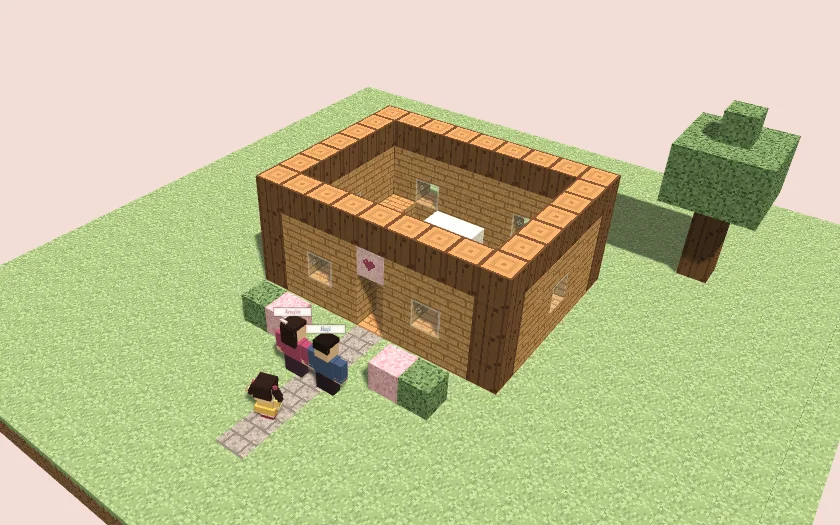
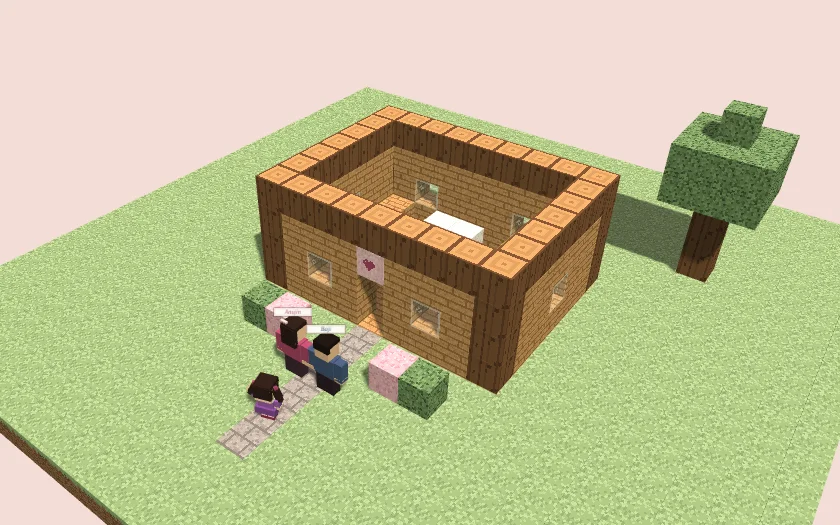
Dress our little girl in purple
Claude-Session: https://claude.ai/code/session_01CsSMHxKRckSsfcdswxFget

diff --git a/home/app.js b/home/app.js
@@ -151,10 +151,10 @@ const LOOK={Anujin:{name:"Anujin",skin:0xf1c9a5,skinCss:"#f1c9a5",shirt:0xa8476b
 const people={Anujin:person(LOOK.Anujin),Baji:person(LOOK.Baji)};
 Object.values(people).forEach(p=>p.g.visible=false);
 
-// our little girl: twin tails, a sunny dress. Her walk is timed by the clock, so she's in the same spot on both phones; tap her for a hop and hearts
+// our little girl: twin tails, a purple dress. Her walk is timed by the clock, so she's in the same spot on both phones; tap her for a hop and hearts
 const KID=(function(){
   const g=new T.Group(),body=new T.Group();g.add(body);
-  const m=c=>new T.MeshLambertMaterial({color:c}),sk=m(0xf3cfae),dress=m(0xf2c76e),skirt=m(0xe9b85a),collar=m(0xfffdf9),tights=m(0xfaf6ef),shoe=m(0x8c2f4a),hair=m(0x2b1d18),bow=m(0xa8476b);
+  const m=c=>new T.MeshLambertMaterial({color:c}),sk=m(0xf3cfae),dress=m(0x8e5aa8),skirt=m(0x7a4794),collar=m(0xfffdf9),tights=m(0xfaf6ef),shoe=m(0x8c2f4a),hair=m(0x2b1d18),bow=m(0xa8476b);
   const part=(w,h,d,mt,x,y,z,p=body)=>{const b=new T.Mesh(new T.BoxGeometry(w,h,d),mt);b.position.set(x,y,z);b.castShadow=true;p.add(b);return b};
   const limb=(mt,x,y,len,w,end)=>{const p=new T.Group();p.position.set(x,y,0);body.add(p);part(w,len,w,mt,0,-len/2,0,p);if(end)part(w+.03,.15,w+.08,end,0,-len+.07,.03,p);return p};
   const legL=limb(tights,-.17,.62,.62,.3,shoe),legR=limb(tights,.17,.62,.62,.3,shoe);
